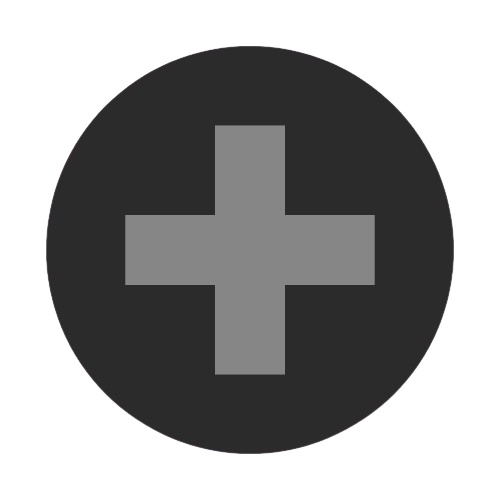
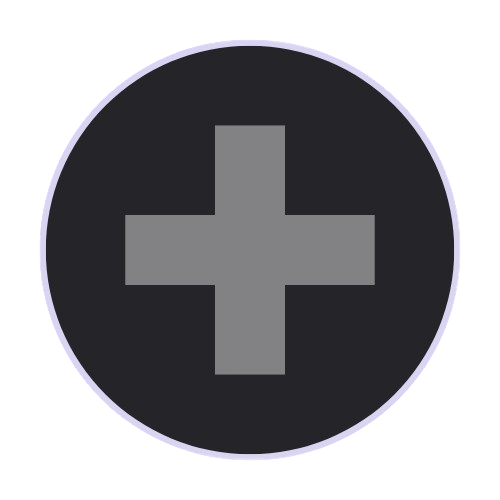
add website button functioning( incomplete), better style is needed

diff --git a/js/main.js b/js/main.js
@@ -32,21 +32,20 @@ let db;
 //                          資料庫名稱,資料庫版本號
 const request = indexedDB.open('MyDB',1);
 
+
+// 初始化資料庫時執行 or 試圖開啟版本號更高的資料庫的時候
 request.onupgradeneeded = (e) => {
     db = e.target.result;
     db.createObjectStore('backgroundDB',1);
-    console.log('a');
 };
 
 request.onsuccess = (e) =>{
     db = e.target.result;
     loadImage();
-    console.log('b');
 };
 
 uploadBg.addEventListener('change',()=>{
     const file = uploadBg.files[0];
-    console.log('c');
     if(!file) return;
 
 
@@ -59,7 +58,6 @@ uploadBg.addEventListener('change',()=>{
         reader.onload = (e) =>{
             saveImage(file);
             changeBackground(file);
-            console.log('dfaidjfdsnfoj')
         };
         reader.readAsDataURL(file);
     }
@@ -82,7 +80,6 @@ function saveImage(file){
 //載入之前存進indexedDB的圖片
 
 function loadImage(){
-    console.log('e');
     const tx= db.transaction("images","readonly");
     const req = tx.objectStore("images").get("bgImage");
     req.onsuccess = (e) =>{
@@ -94,13 +91,12 @@ function loadImage(){
 };
 
 function changeBackground(file){
-    console.log('f');
     const url = URL.createObjectURL(file);
     document.body.style.backgroundImage = `url(${url})`; // 反引號才能 {變數}
     document.body.style.backgroundRepeat = 'no-repeat';
     document.body.style.backgroundSize = 'cover'; //讓背景布滿整個 viewport
 };
 
-console.log('yooo');
+
 
 

diff --git a/index.html b/index.html
@@ -5,6 +5,7 @@
     <meta name="viewport" content="width=device-width, initial-scale=1.0">
     <title>Website Portal Hub</title>
     <link rel="stylesheet" href="./css/style.css" type="text/css">
+    <link rel="stylesheet" href="./css/addWebsite.css" type="text/css">
     <link rel="preconnect" href="https://fonts.googleapis.com">
     <link rel="preconnect" href="https://fonts.gstatic.com" crossorigin>
     <link href="https://fonts.googleapis.com/css2?family=Changa+One:ital@0;1&family=Wendy+One&display=swap" rel="stylesheet">
@@ -33,9 +34,19 @@
             </label>
             
         </div>
+        <div id="addWebsiteMunu" class="addWebsiteMunu">
+            <div class="menu-content">
+                <!-- html實體 顯示"X" -->
+                <span id="closeBtn">&times;</span>
+                <p>Website Link</p>
+                <input type="text" name="webLink">
+            </div>
+            
+
+        </div>
     </nav>
     
-    
+    <script src="./js/addWebsite.js"></script>
     <script src="./js/main.js"></script>
 </body>
 </html>

diff --git a/css/addWebsite.css b/css/addWebsite.css
@@ -1,0 +1,35 @@
+/* 全網頁半透明層 */
+.addWebsiteMunu{
+    display: none;
+    position: fixed;
+
+    /* 從左上角開始 */
+    top: 0;
+    left: 0;
+
+    /* 覆蓋整個瀏覽器, width由左往右延伸 height從上往下 */
+    width: 100%;
+    height: 100%;
+
+    background: rgba(0,0,0,0.5); /*半透明黑色背景*/
+
+    justify-content: center;
+    align-items: center;
+}
+
+.menu-content{
+    background-color: white;
+    padding: 20px;
+    border-radius: 10px;
+    width: 30vw;
+    text-align: center;
+
+    /* 提供子元素 position: absolute; 的移動基準 */
+    position: relative;
+}
+
+#closeBtn{
+    float: right; /* 把按鈕放到右上 */
+    cursor: pointer;
+
+}

diff --git a/js/addWebsite.js b/js/addWebsite.js
@@ -1,0 +1,11 @@
+const addWebBtn = document.getElementById('addWeb');
+const closeBtn = document.getElementById('closeBtn');
+const addWebsiteMunu = document.getElementById('addWebsiteMunu');
+
+addWebBtn.onclick = () => {
+    addWebsiteMunu.style.display = 'flex';
+};
+
+closeBtn.onclick = () =>{
+    addWebsiteMunu.style.display = 'none';
+};

diff --git a/css/style.css b/css/style.css
@@ -92,8 +92,8 @@
 
 #uploadBgText:hover{
     cursor: pointer;
-    background-color: rgb(37, 126, 62);
-    transition: background-color 0.2s;
+    background-color: rgb(126, 212, 40);
+    transition: background-color 0.5s;
 
 }
 
